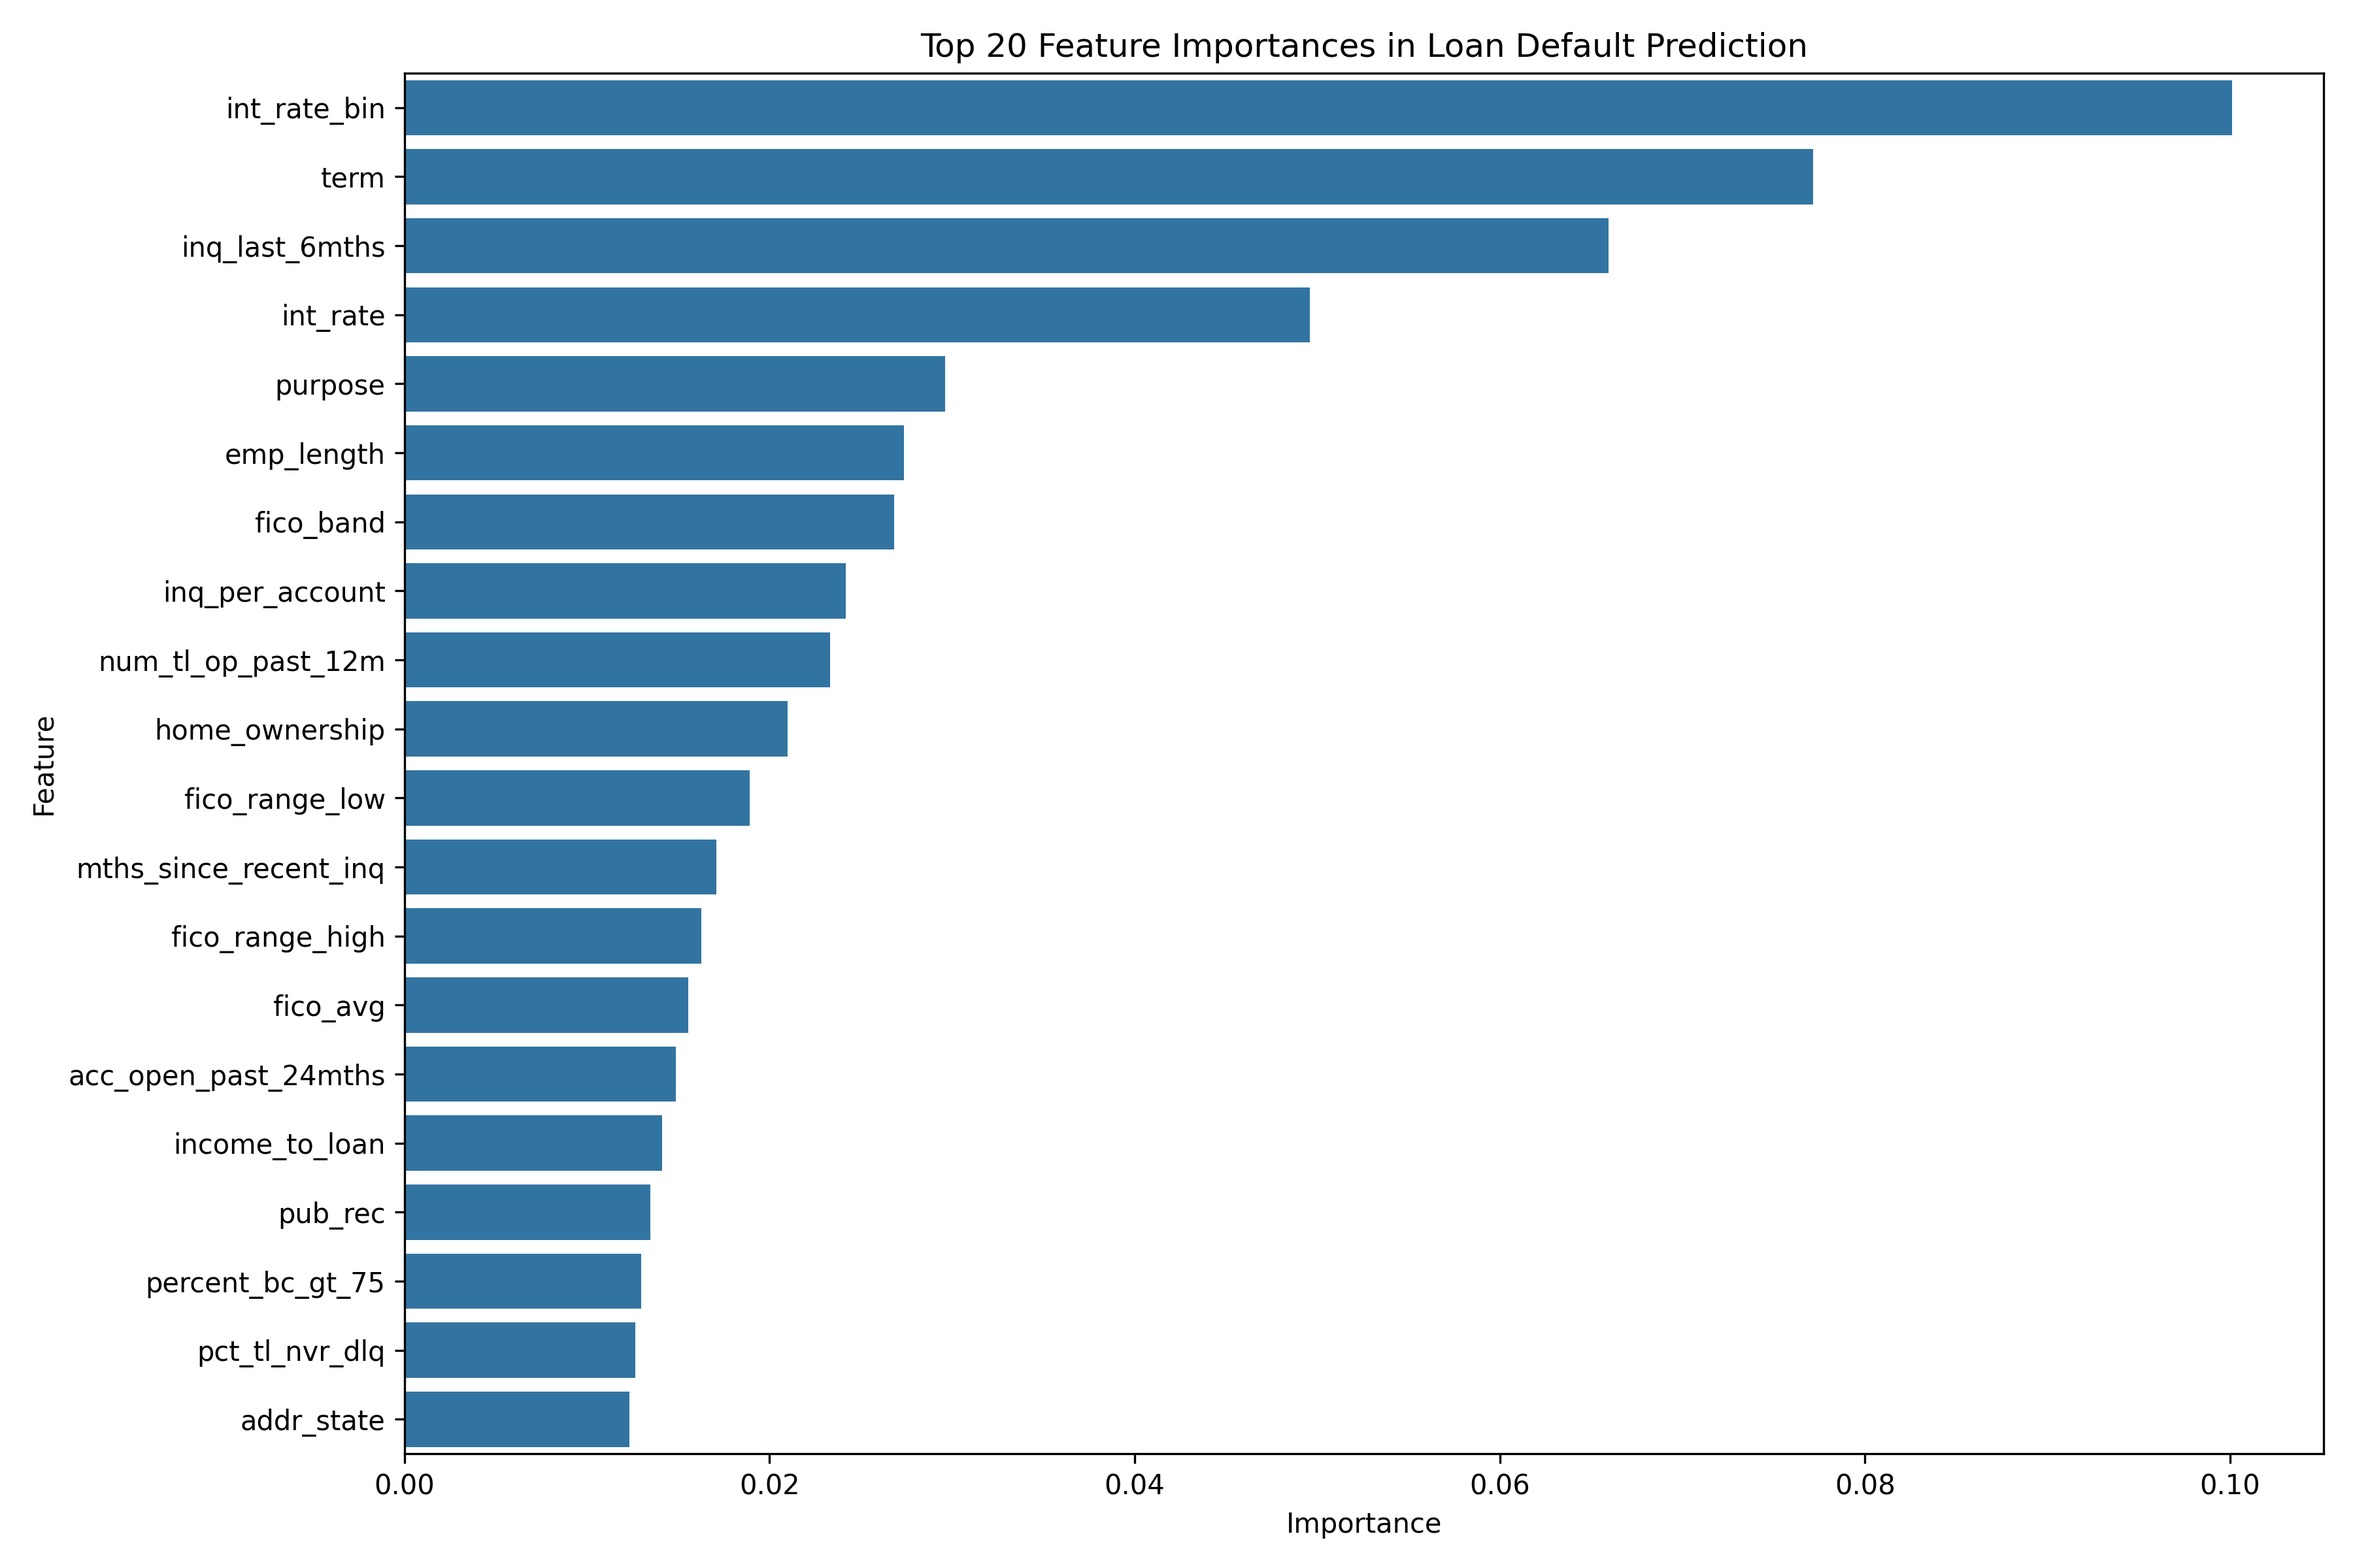
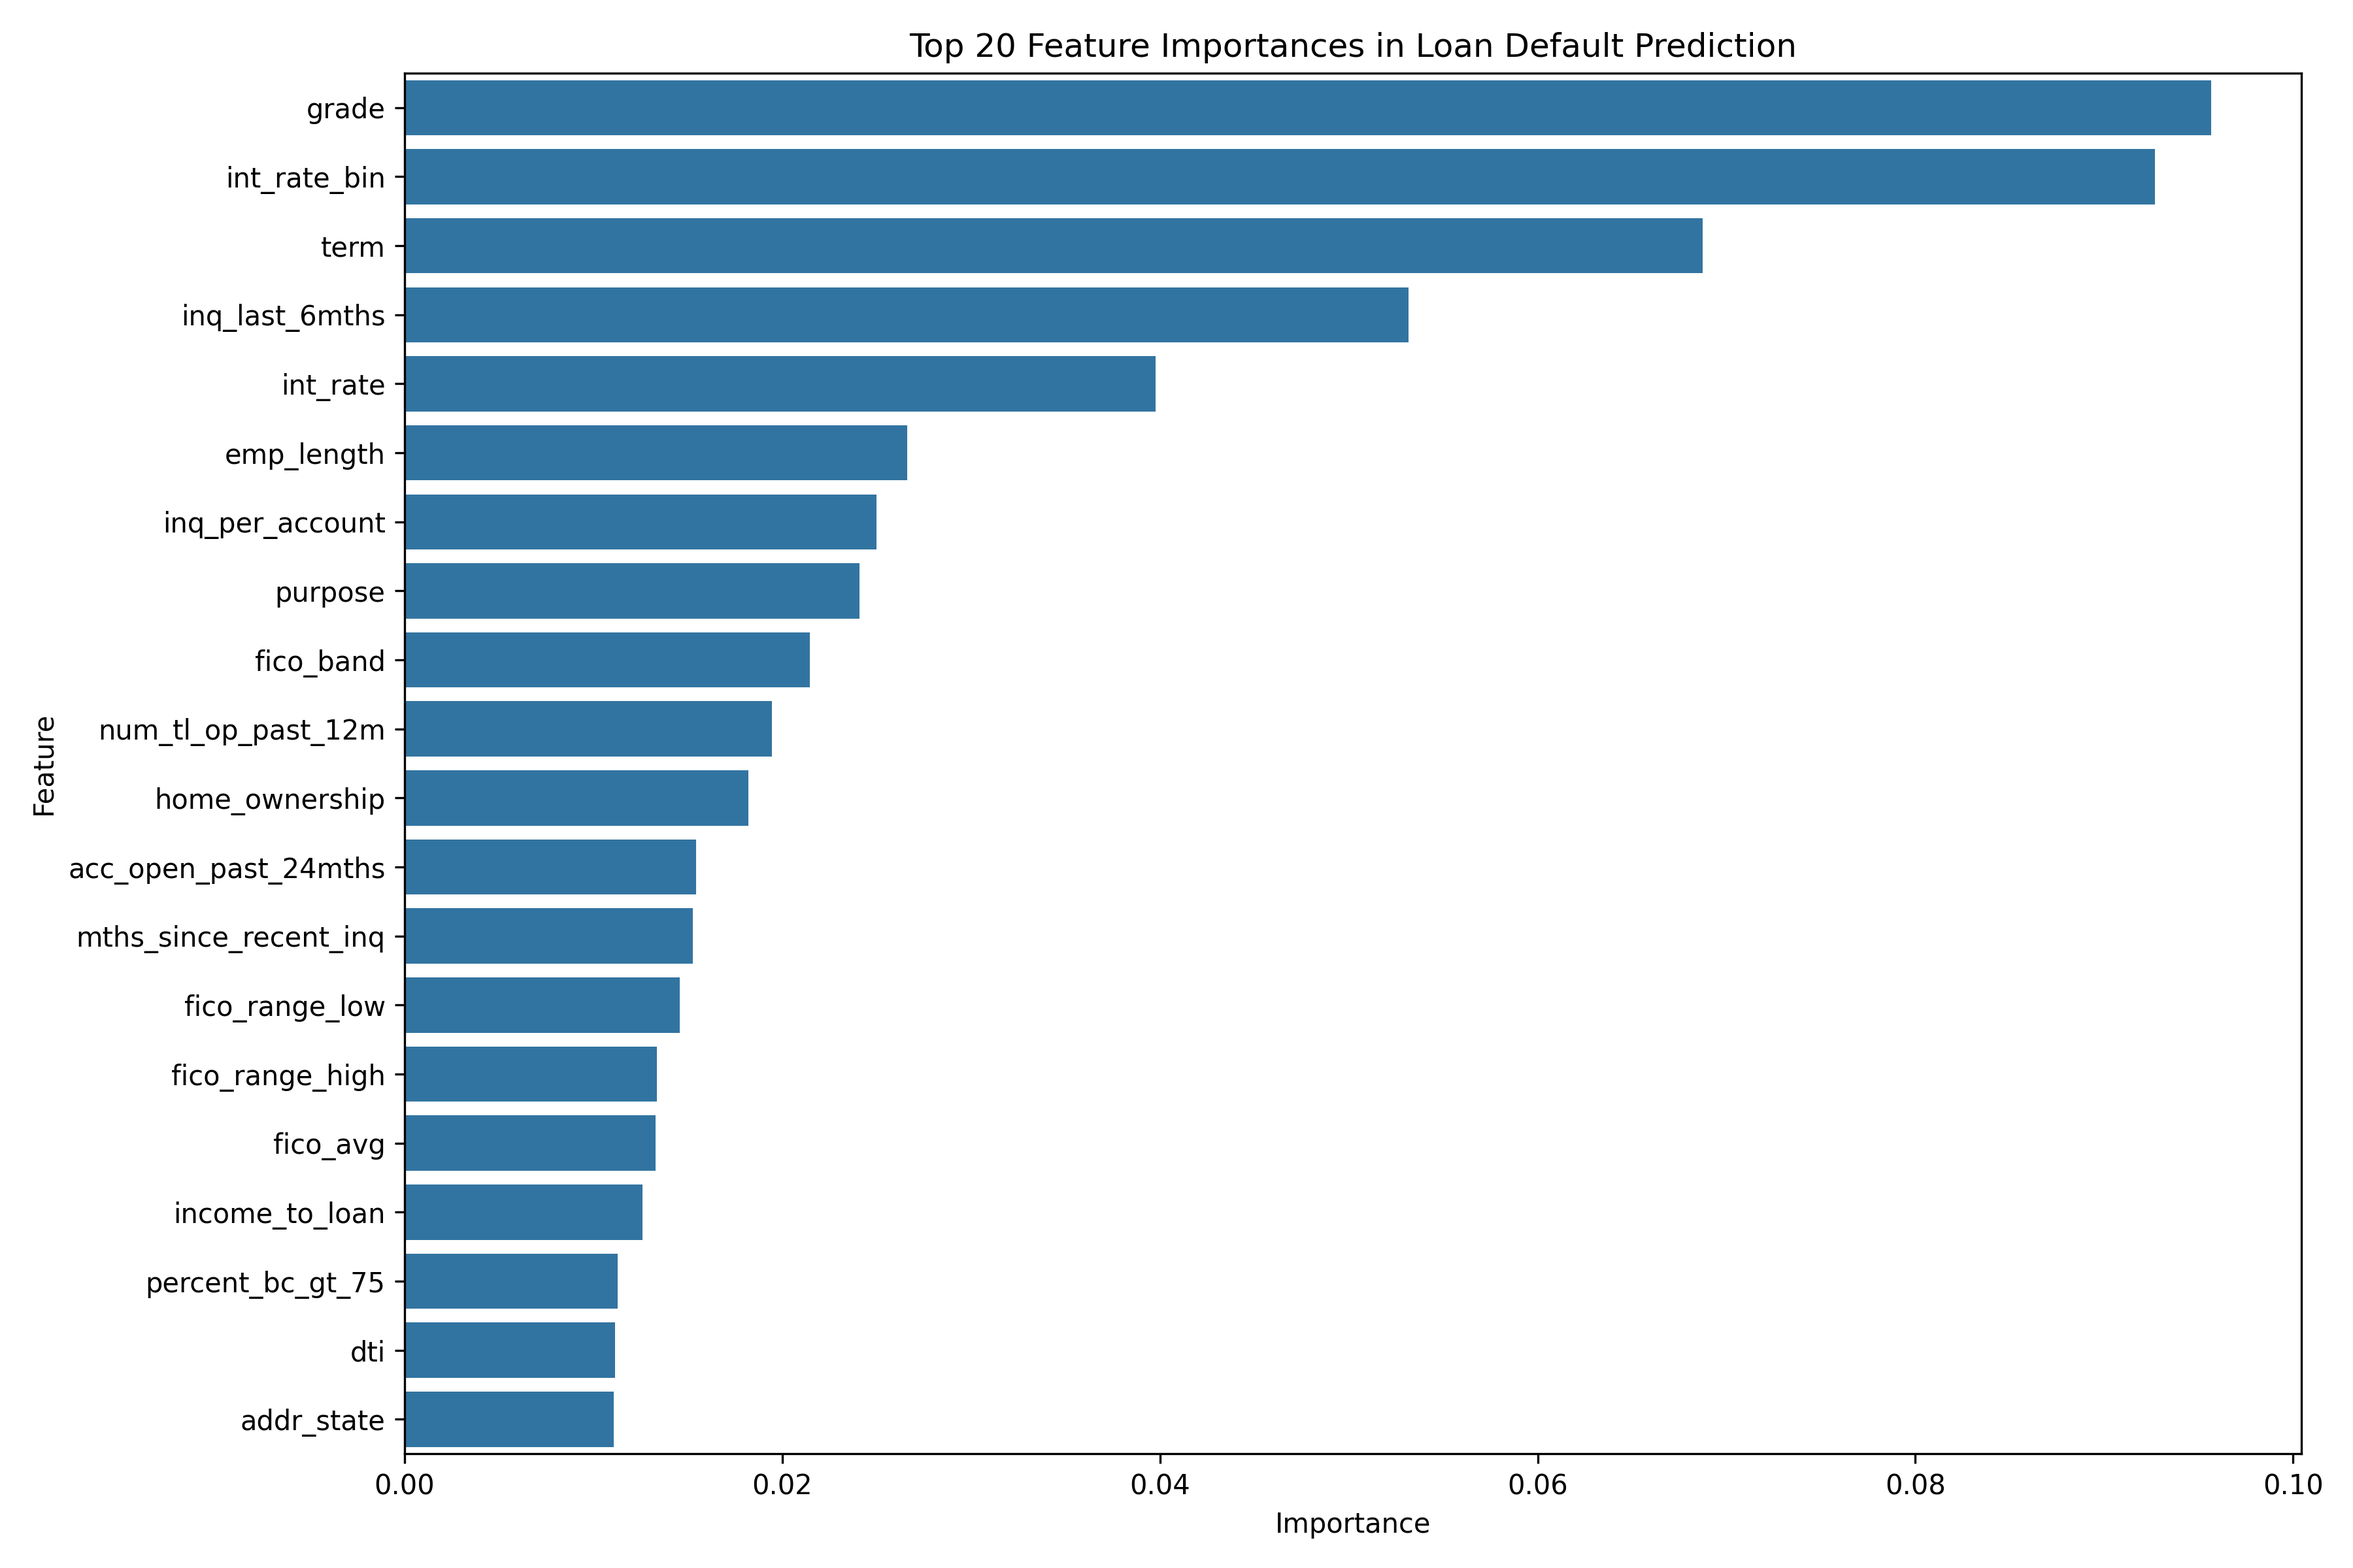
Clean up model training and preprocessing scripts

diff --git a/src/model/train.py b/src/model/train.py
@@ -7,7 +7,6 @@ from sklearn.ensemble import RandomForestClassifier
 from sklearn.compose import ColumnTransformer
 from sklearn.impute import SimpleImputer
 from sklearn.preprocessing import OrdinalEncoder
-from sklearn.calibration import CalibratedClassifierCV
 from sklearn.metrics import (
     accuracy_score,
     classification_report,
@@ -66,7 +65,8 @@ def train_model(model, X_train, y_train):
 def test_model(model, X_test, y_test, threshold=0.5):
     
     # Due to dataset bias towards paid-in-full accounts,
-    # adjust the probability threshold to catch more default accounts
+    # optionally adjust the probability threshold to catch
+    # more default accounts
     y_proba = model.predict_proba(X_test)[:, 1]
     y_pred_thresh = (y_proba >= threshold).astype(int)
 

diff --git a/src/model/prepare_data.py b/src/model/prepare_data.py
@@ -30,7 +30,7 @@ def drop_unhelpful_columns(df: pd.DataFrame):
         "sec_app_collections_12_mths_ex_med", "policy_code", "deferral_term",
         "debt_settlement_flag", "hardship_flag", "hardship_type", "hardship_reason",
         "hardship_status", "hardship_payoff_balance_amount", "installment", "initial_list_status",
-        "application_type", "verification_status_joint", "annual_inc_joint", "dti_joint", "grade",
+        "application_type", "verification_status_joint", "annual_inc_joint", "dti_joint",
         "disbursement_method", "verification_status", "last_pymnt_d", "issue_d", "earliest_cr_line",
     ]
 
